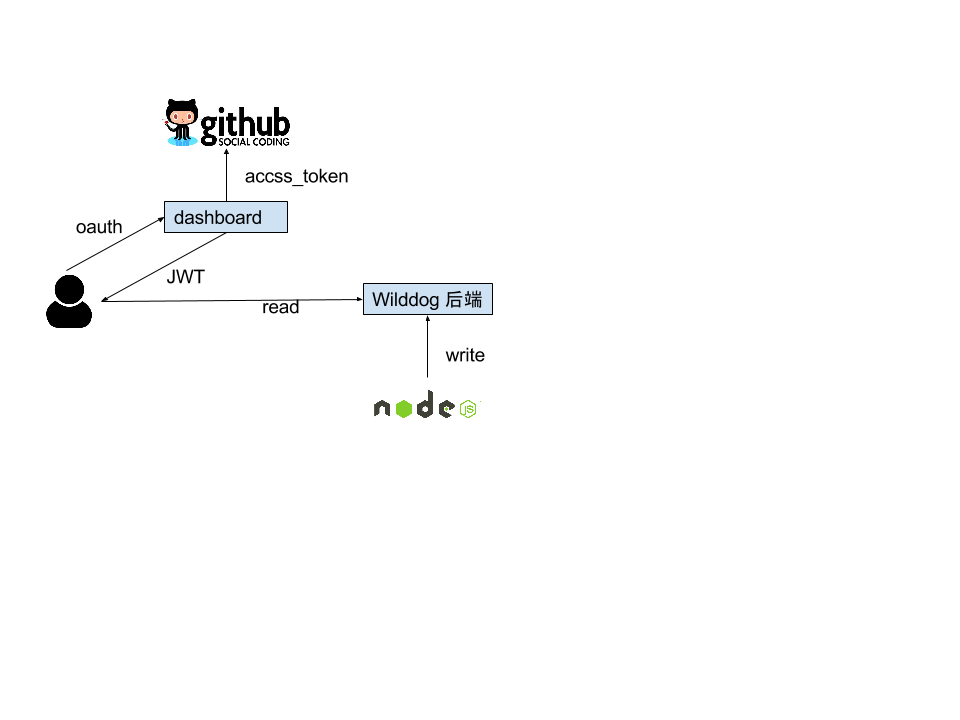
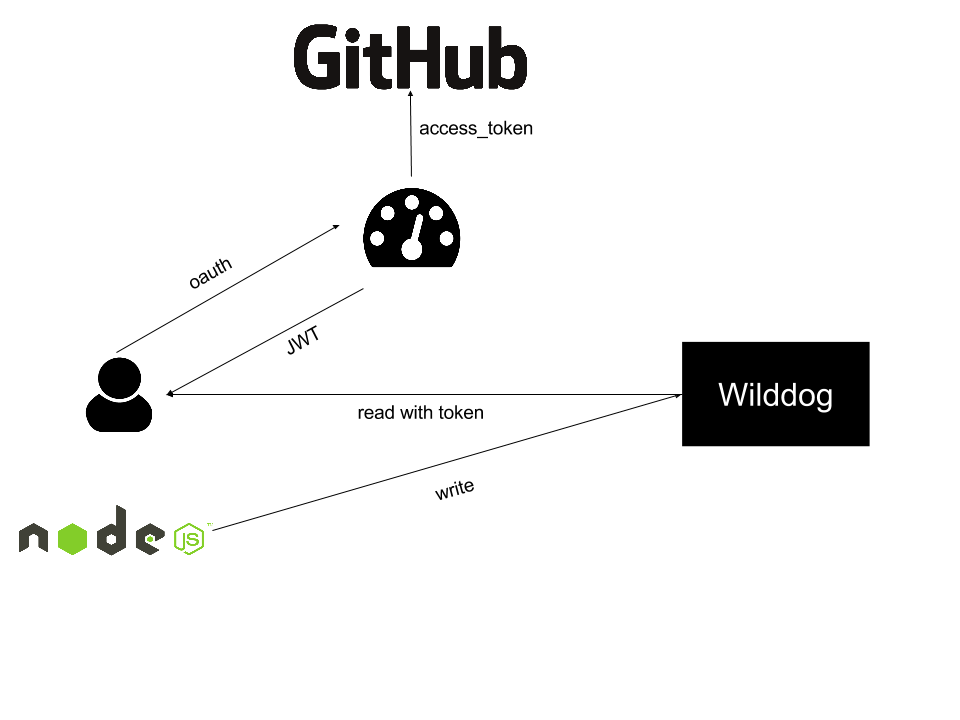
update readme

diff --git a/README.md b/README.md
@@ -1,16 +1,16 @@
 # v8-memory-dashboard
-基于 `野狗` 打造一个**实时的**能够看到 `v8` 引擎内存分配的仪表盘。
+基于 `野狗` 打造一个 `v8` 内存分配的实时仪表盘。
 
 ## 使用步骤
 
-- 在你的 `Node.JS` 应用里装上 [v8-memory-dashboard-client](https://github.com/wyvernnot/v8-memory-dashboard-client) 模块, 注意 `Node.JS` 版本最低要求是 `6.0.0`
+- 在 `Node.JS` 应用里装上 [v8-memory-dashboard-client](https://github.com/wyvernnot/v8-memory-dashboard-client) 模块, 注意 `Node.JS` 版本最低要求是 `6.0.0`
 - 打开 DEMO 页面 [longtian-v8.daoapp.io](http://longtian-v8.daoapp.io/), 使用 `Github` 账号登录
 - 按照页面上的提示, 在代码里引入模块
-- 重新启动应用, 马上就能看到 `v8` 的内存数据
+- 重新启动应用, 很快就能看到 `v8` 的内存数据
 
 ## 独立部署
 
-`DEMO` 用的是免费的 Wilddog 账号, 因此流量和并发数有限。你也可以独立部署自己的服务器, 服务器使用 `Docker` 镜像的方式发布。
+`DEMO` 用的是免费的 `Wilddog` 账号, 因此流量和并发数有限。你也可以独立部署自己的服务器, 服务器使用 `Docker` 镜像的方式发布。
 
 [![Docker Pulls](https://img.shields.io/docker/pulls/wyvernnot/v8-memory-dashboard.svg?style=flat-square)](https://hub.docker.com/r/wyvernnot/v8-memory-dashboard/)
 
@@ -29,7 +29,7 @@ docker run -p 8080:8080 wyvernnot/v8-memory-dashboard \
 | 环境变量            |  备注                       |
 |--------------------|-----------------------------|
 |WILDDOG_URL         |  野狗的应用的 ROOT URL       |
-|WILDDOG_SECRET      |  野狗 Secret, 用于生成 JWT   |
+|WILDDOG_SECRET      |  野狗超级密匙, 用于生成 token  |
 |CLIENT_ID           |  Github OAuth CLIENT_ID     |
 |CLIENT_SECRET       |  Github OAuth CLIENT_SECRET |
 
@@ -37,12 +37,25 @@ docker run -p 8080:8080 wyvernnot/v8-memory-dashboard \
 
 ![](./public/v8-memory-dashboard.png)
 
-- 使用 `Github oAuth` 验证用户身份, 并产生一个 `UID`
-- 利用野狗的密匙 `WILDDOG_SERECT` 结合 `JWT` 技术生成一个 `token`
-- 客户在浏览器通过 `token` 连接到 `Wilddog` 服务器
-- Node.JS 会定期把数据写入 `Wilddog` 后台
-- 写入的时候不做认证, 读取的时候做认证, 用户登录后只能看到自己的数据
-- `dashboard` 服务器负责 `Github oAuth` 和生成 `JWT` 的 `token` ,本身不存储或转发任何 `v8` 的数据
+- 通过 `Github oAuth` 取得 `Github` 用户信息
+- 利用野狗的密匙 `WILDDOG_SECRET` 并结合 `GITHUB` 用户信息, 使用 `JWT` 算法生成一个包含用户 `UID` 的 `token`
+- 用户在浏览器端通过该 `token` 连接到 `Wilddog` 服务器并通过认证
+- `v8-memory-dashboard-client` 会定期把数据写入 `Wilddog` 后台
+- `Wilddog` 后台在写入的时候不做认证, 但是读取的时候做认证, 保证用户登录后只能看到自己的数据
+- `dashboard` 服务器负责 `Github oAuth` 过程和生成 `JWT` 的 `token`, 本身不存储或转发任何 `v8` 的数据
+
+## 规则表达式
+
+```json
+{
+  "rules": {
+    "$user_id": {
+      ".read": "$user_id == auth.uid",
+      ".write": true
+    }
+  }
+}
+```
 
 [编辑图片](https://docs.google.com/drawings/d/1ha1_rxfchymF4cSZR8EfVxfcUVH7JGMTPmHHILPAtks/edit?usp=sharing)
 
